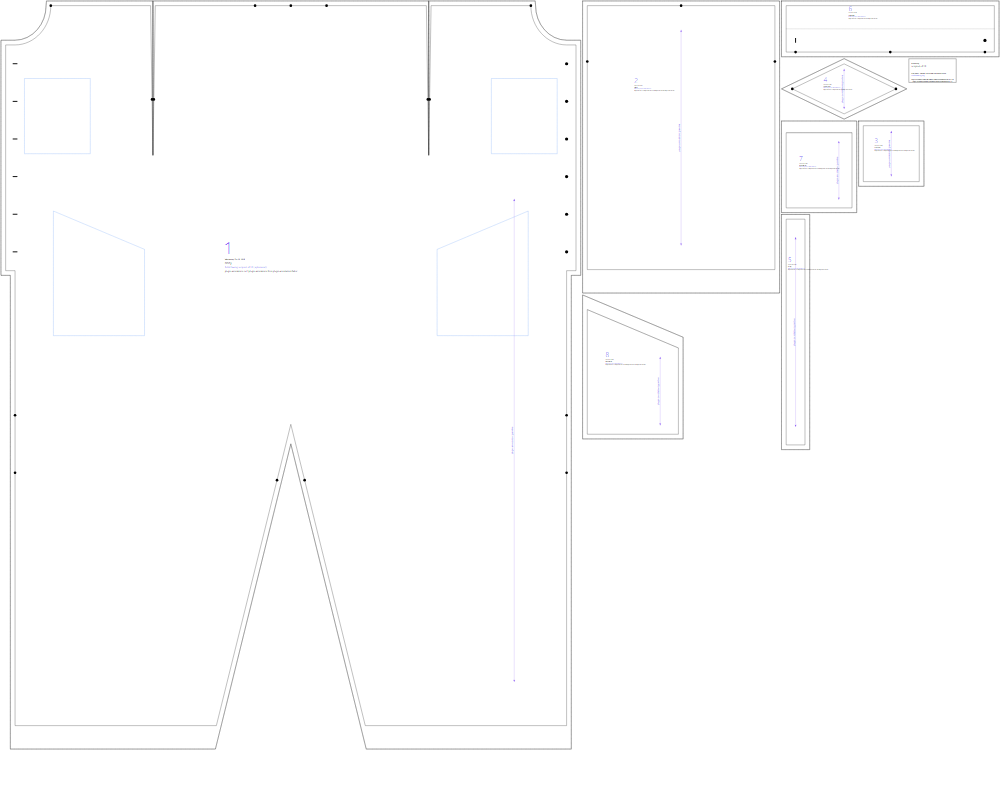
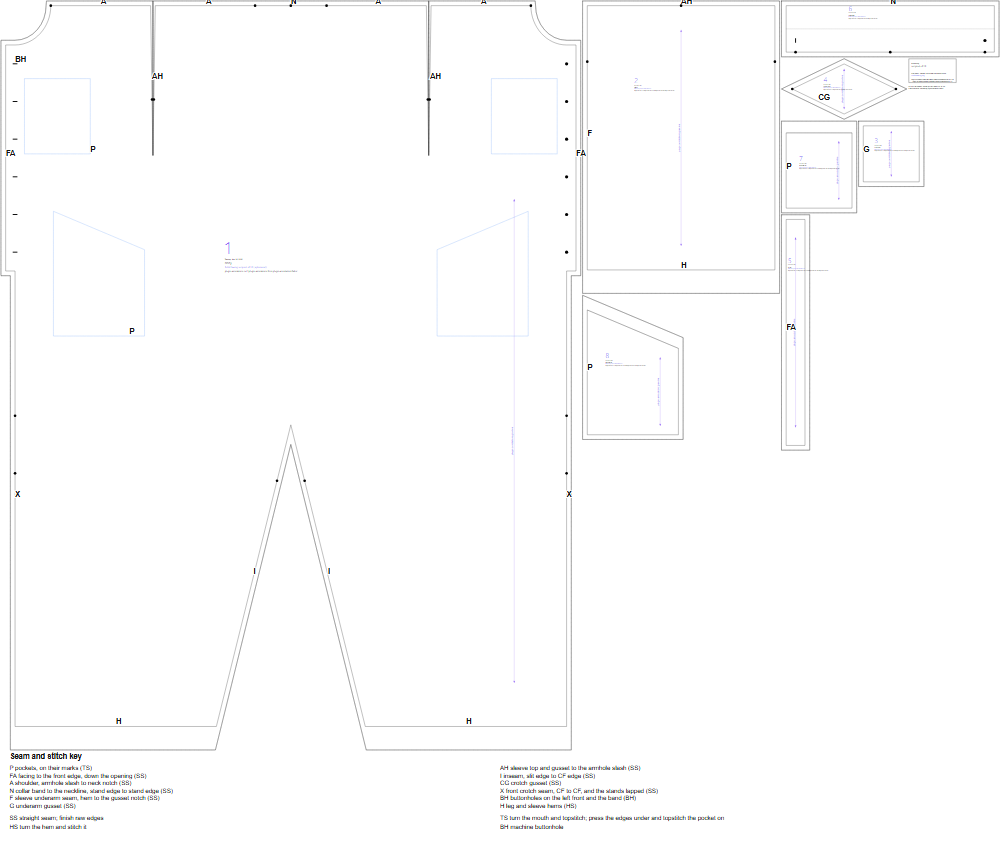
Map the jumpsuit; number its steps
drawPolygon now names every corner v<i> (so every flat-cut suit piece and polygon piece has anchors), and the suit body names the points on its outline.

diff --git a/designs/jumpsuit/BRIEF.md b/designs/jumpsuit/BRIEF.md
@@ -90,20 +90,14 @@ Thirteen pieces, all straight lines:
 8. Lower pocket: cut 2 (if `lowerPockets`).
 
 ## Construction
-1. Pockets: turn and stitch each mouth, press the other edges under, and topstitch the pockets
-   on their marks.
-2. Facings: sew one to each front edge down the opening, turn and press.
-3. Shoulders: sew each front's top edge to the back's, from the armhole slash to the neck notch.
-4. Collar band: sew to the neckline from stand edge to stand edge (notches at CF and CB), fold,
-   and close its ends.
-5. Sleeves: sew each underarm seam from the hem to the gusset notch, then set two adjacent sides
-   of an underarm gusset into its open end.
-6. Armholes: sew the sleeve's top to the slash edges above the gusset notches (its centre notch
-   at the shoulder seam), and the gusset's other two sides to the slash edges below, its corner
-   at the slash's point.
-7. Legs: sew each inseam, slit edge to CF edge, from the hem to the inseam notch.
-8. Crotch gusset: front corner at the CF crotch notches, back corner at the slit's point, its
-   four sides to the tops of the inseam edges.
-9. Front crotch seam: CF to CF from the crotch notch to the bottom of the opening; lap the left
-   stand over the right and stitch across.
-10. Buttonholes on the left front and the band, buttons on the right; hem the legs and sleeves.
+
+1. Pockets: turn and stitch each mouth, press the other edges under, and topstitch the P pockets on their marks.
+2. Facings: sew one to each front edge down the opening at FA, turn and press.
+3. Shoulders: sew each front's top edge to the back's at A, from the armhole slash to the neck notch.
+4. Collar band: sew it to the neckline at N from stand edge to stand edge (notches at CF and CB), fold, and close its ends.
+5. Sleeves: sew each F underarm seam from the hem to the gusset notch, then set two adjacent sides of a G underarm gusset into its open end.
+6. Armholes: sew the sleeve's top to the slash edges above the gusset notches at AH (its centre notch at the shoulder seam), and the gusset's other two sides to the slash edges below, its corner at the slash's point.
+7. Legs: sew each I inseam, slit edge to CF edge, from the hem to the inseam notch.
+8. Crotch gusset: set the CG gusset with its front corner at the CF crotch notches, its back corner at the slit's point, and its four sides to the tops of the inseam edges.
+9. Front crotch seam: sew X, CF to CF, from the crotch notch to the bottom of the opening; lap the left stand over the right and stitch across.
+10. Work the BH buttonholes on the left front and the band, sew the buttons on the right, and finish the H leg and sleeve hems.
